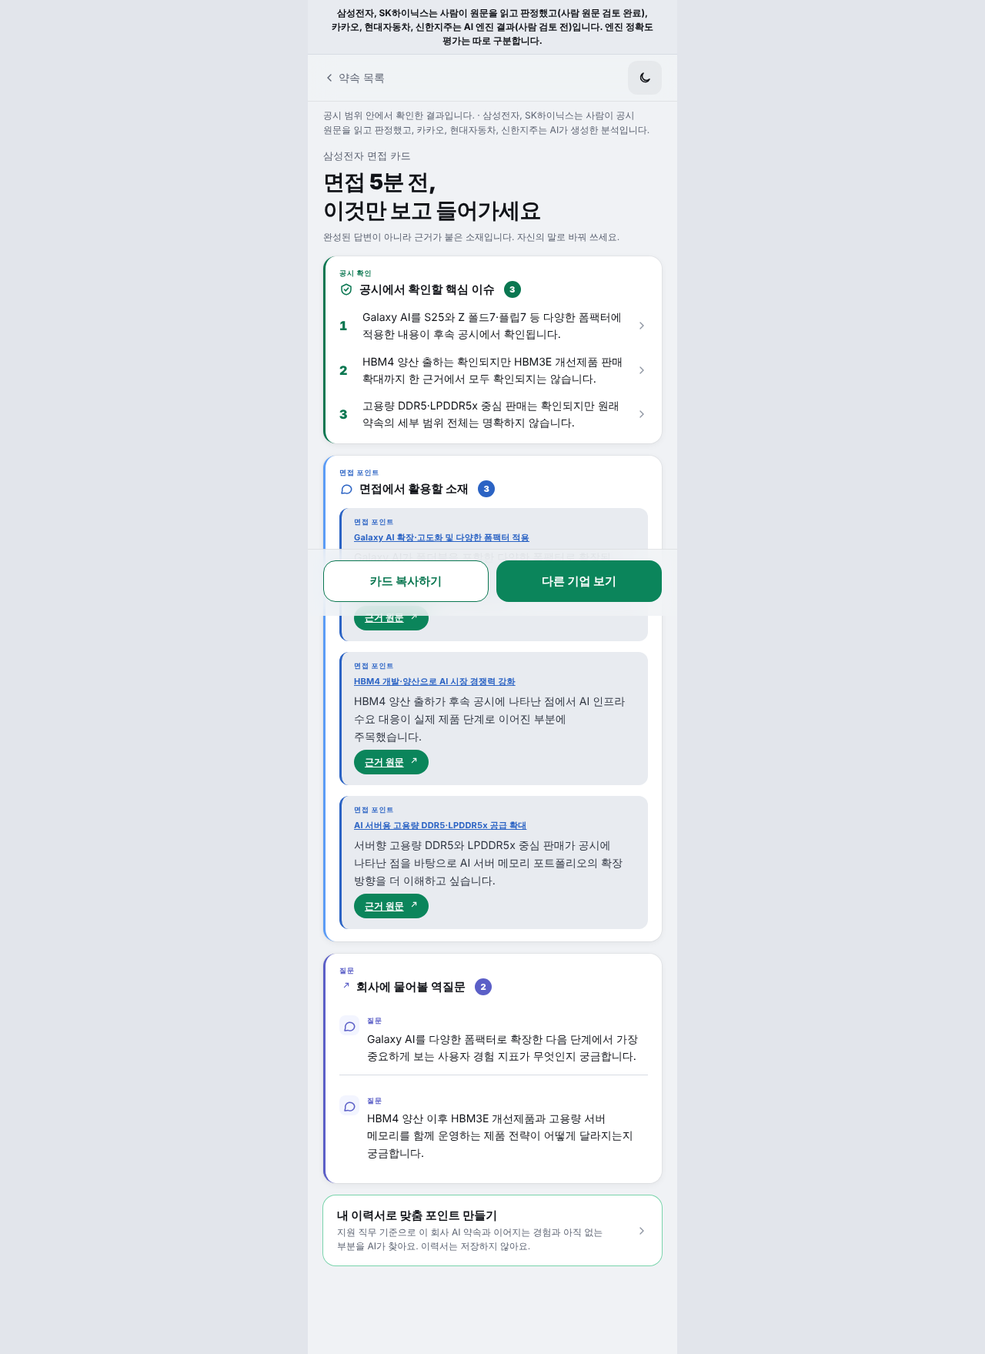
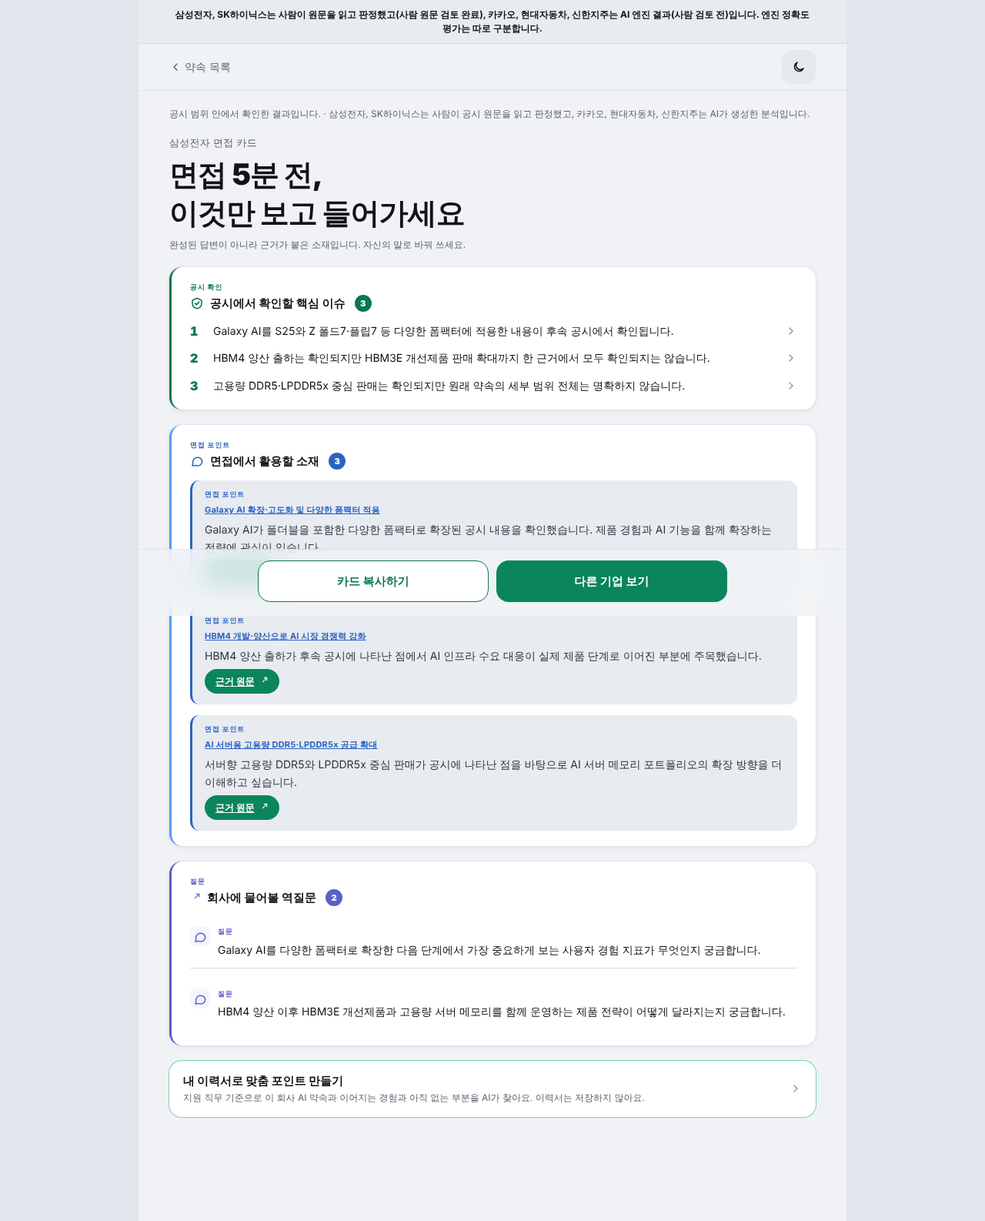
마지막 다듬기: PC 화면 넓게, README 한눈에 보기, 판정 설명·근거 점검, 발표 방향
- PC(1024px 이상)에서만 화면을 920px까지 넓히고 기업 목록을 두 줄로 (휴대폰 화면 6개는 바꾸기 전과 픽셀까지 같음)
- 사람 원문 검토 기업의 안내 문구를 "읽고 판정한"으로 통일
- README 맨 위: 한 문장 소개, 첫 화면 그림, 한눈에 보기, 결과 숫자, 작동 흐름, 심사용 읽는 순서, 문서 묶음
- 화면의 판정 15개 설명·근거 점검 기록 (docs/judgment-audit.md): 판정 이유 15/15, 근거 문장 원문 존재 확인 15/15,
  엔진의 "공시에서 확인 불가" 3개는 판정 모델이 받은 후보 문장까지 확인. 찾은 문제 1건(판정 이유의 내부 용어)은 후속 과제
- 예상 질문 Q13(검색 문제와 판정 문제 나누기), Q14(판정 이유 확인), 발표 방향(가장 강한 장면, 보여 줄 숫자, 남은 위험)
- PC 화면 캡처 다시 찍기 (docs/images/screens/)

Claude-Session: https://claude.ai/code/session_01BzNPn68M46ueTLKzppE7wq

Changed region(s): [[0.1562, 0.0, 0.8438, 0.9269], [0.1875, 0.0, 0.25, 0.0309], [0.6562, 0.5252, 0.6875, 0.5561]]

diff --git a/app/css/style.css b/app/css/style.css
@@ -996,3 +996,26 @@ a.search-item:active { transform: scale(0.985); }
 .glossary-card > summary span { font-size: 13px; font-weight: 800; color: var(--text); }
 .glossary-card > summary small { font-size: 12px; line-height: 1.5; color: var(--sub); }
 .glossary-card[open] > summary { margin-bottom: 10px; }
+
+/* ---------- 20. PC 폭 (10/20): 1024px 이상에서만 넓게 써요. 휴대폰 화면(1023px 이하)은 그대로예요 ---------- */
+@media (min-width: 1024px) {
+  :root { --page-max: 920px; }
+  .sample-banner { padding: 10px 40px; }
+  .topbar { padding-left: 40px; padding-right: 40px; }
+  .content { padding: 20px 40px 48px; gap: 20px; }
+  .bottombar { padding-left: 40px; padding-right: 40px; }
+  .bottombar:not(.two) .btn { max-width: 420px; margin: 0 auto; }
+  .bottombar.two { grid-template-columns: repeat(2, minmax(0, 300px)); justify-content: center; }
+  .hero { padding-top: 28px; gap: 14px; }
+  .headline { font-size: 38px; }
+  .lead { font-size: 16px; max-width: 640px; }
+  .hero-stats { gap: 12px; }
+  .hero-stats > div { padding: 16px 18px; gap: 6px; }
+  .hero-stats strong { font-size: 28px; }
+  .hero-stats span { font-size: 12px; }
+  .company-list { display: grid; grid-template-columns: repeat(2, minmax(0, 1fr)); gap: 12px; }
+  .detail-title { font-size: 28px; }
+  .card:not(.pipeline-card) { padding: 20px 24px; }
+  .pipeline-card > summary { padding: 20px 24px; }
+  .pipeline-list { padding: 0 24px 10px; }
+}

diff --git a/docs/judgment-audit.md b/docs/judgment-audit.md
@@ -1,0 +1,66 @@
+# AI 판정 설명·근거 점검 (10/20)
+
+화면에 나온 판정 15개(구체적 약속)를 대상으로, 사용자가 판정 이유를 확인할 수 있는지와 근거가 DART 원문으로 이어지는지를 점검했습니다. 판정이 맞는지(정확도)를 사람이 다시 매긴 기록이 아닙니다. 사람이 원문을 읽고 판정을 확인한 것은 삼성전자·SK하이닉스 6개(사람 원문 검토 완료)이고, 카카오·현대자동차·신한지주 9개는 AI 엔진 결과(사람 원문 검토 전)입니다. 이 점검은 Claude가 결과 파일과 엔진 기록을 읽어 한 AI 보조 점검입니다.
+
+## 1. 화면에서 판정 이유를 확인하는 곳
+
+약속 상세 화면 하나가 "검증 카드" 역할을 합니다. 새 기능을 만들지 않고, 이미 있는 칸이 아래 질문에 모두 답하는지 확인했습니다.
+
+| 확인할 것 | 화면 위치 | 데이터 |
+| --- | --- | --- |
+| 기업이 무엇을 약속했나 | 01 "약속 · 2024 사업보고서": 원문 문장 그대로, 보고서·장·전자공시 쪽 | `promises[].sentence`, `source` |
+| 무엇이 실행 근거로 확인됐나 | 02 "근거 · 후속 공시": 근거 문장, "원문 존재 확인" 배지, 원문 보기 링크, 약속과 같은 말 형광 표시 | `evidence[]` |
+| 왜 이 판정인가 | 03 "판정": 판정 이름, 판정 뜻 한 줄, 판정 이유(확인된 부분과 확인되지 않은 부분) | `verdict`, `reason` |
+| 아직 실행 시기가 아닌가 | 약속한 시기가 근거를 찾은 범위(2026 반기보고서, 6월 말)보다 뒤면 "실행 시기 전" 안내 | 약속 문장의 시기 표현 (FB-03) |
+| 원문으로 직접 확인 | 화면 아래 DART 원문 버튼 2개(약속 보고서, 근거 보고서) | `source.url` |
+| 누가 확인했나 | 확인 4단계(처음에 접힘): 원문 존재 확인 N/M, 사람 원문 검토 완료/전 | 기업의 `data_mode` |
+
+## 2. 판정 15개 점검 결과
+
+| 기업 | 약속 | 판정 | 근거 문장 (원문 존재 확인 / DART 링크) | 판정 이유에 확인된 부분과 안 된 부분 | 검토 상태 |
+| --- | --- | --- | --- | --- | --- |
+| 삼성전자 | Galaxy AI 확장·고도화 및 다양한 폼팩터 적용 | 근거 확인 | 1개 (1/1, 1/1) | 약속 대상과 활동이 함께 확인된다고 적음 | 사람 원문 검토 완료 |
+| 삼성전자 | HBM4 개발·양산으로 AI 시장 경쟁력 강화 | 일부 확인 | 1개 (1/1, 1/1) | 있음 (HBM4 양산 출하 확인 / HBM3E 판매 확대 미확인) | 사람 원문 검토 완료 |
+| 삼성전자 | AI 서버용 고용량 DDR5·LPDDR5x 공급 확대 | 일부 확인 | 1개 (1/1, 1/1) | 있음 (고용량 제품 판매 확인 / 세부 용량·1b나노 확산 미확인) | 사람 원문 검토 완료 |
+| SK하이닉스 | SOCAMM·LPCAMM으로 AI 서버·PC 시장 대응 | 공시에서 확인 불가 | 없음 | 읽은 범위와 "미이행이라는 뜻이 아님"을 적음 | 사람 원문 검토 완료 |
+| SK하이닉스 | ZUFS 4.0 양산 및 온디바이스 AI 스마트폰 탑재 | 공시에서 확인 불가 | 없음 | 읽은 범위와 "미이행이라는 뜻이 아님"을 적음 | 사람 원문 검토 완료 |
+| SK하이닉스 | AI 데이터센터용 QLC 61TB Gen5 기술력 확보 | 일부 확인 | 1개 (1/1, 1/1) | 있음 (321단 QLC 개발·고객 인증 확인 / 61TB Gen5 제품 미확인) | 사람 원문 검토 완료 |
+| 카카오 | AI 캠퍼스 활용 확대 | 일부 확인 | 2개 (2/2, 2/2) | 있음 (그룹사 사용·운영 확인 / 활용 증가·홍보 실행 미확인) | AI 엔진 결과 |
+| 카카오 | 카카오톡 AI 신규 기능·서비스 선보임 | 일부 확인 | 1개 (1/1, 1/1) | 있음 (AI 서비스 출시·CBT 확인 / 관심사 지면·트래픽 확대 미확인) | AI 엔진 결과 |
+| 카카오 | 카카오톡 AI 기능 및 별도 앱 서비스 준비 | 일부 확인 | 3개 (3/3, 3/3) | 있음 (카카오톡 내 AI 서비스·오케스트레이션 연구 확인 / 서비스 적용·별도 앱 출시 미확인). 이유 첫머리에 엔진 내부 용어가 나옴 (4장) | AI 엔진 결과 |
+| 현대자동차 | AI 기반 SDV 체계 전환 | 일부 확인 | 2개 (2/2, 2/2) | 있음 (OTA·서비스 수익 모델·AI 엔진 확인 / 차량 데이터 활용·전 밸류체인 전환 미확인) | AI 엔진 결과 |
+| 현대자동차 | 차량 러닝 머신 개발 | 일부 확인 | 2개 (2/2, 2/2) | 있음 (학습형 모빌리티 생태계 관련 활동 확인 / 러닝 머신 개발 단계 불명확) | AI 엔진 결과 |
+| 현대자동차 | AI 기능 구현 ('26년 하반기 SDV 페이스 카) | 공시에서 확인 불가 | 없음 | 읽은 범위와 검색어를 바꿔 2번 더 찾았다고 적음. 화면에 "실행 시기 전" 표시 | AI 엔진 결과 |
+| 신한지주 | AI 활용 플랫폼 경쟁력 강화 | 일부 확인 | 1개 (1/1, 1/1) | 있음 (AI 투자정보 제공 확인 / 테크 기업 파트너십·고객 기반 확대 미확인) | AI 엔진 결과 |
+| 신한지주 | AI 해외 공시·뉴스 번역 서비스 제공 | 공시에서 확인 불가 | 없음 | 읽은 범위와 검색어를 바꿔 2번 더 찾았다고 적음 | AI 엔진 결과 |
+| 신한지주 | AI 활용 내부통제 모니터링 강화 | 공시에서 확인 불가 | 없음 | 읽은 범위와 검색어를 바꿔 2번 더 찾았다고 적음 | AI 엔진 결과 |
+
+요약:
+- 판정한 약속 15개 모두 판정 이유가 있고, 약속 문장의 DART 원문 링크가 있습니다 (15/15).
+- 판정에 쓴 근거 문장 15개는 모두 원문 존재 확인을 통과했고 DART 원문 링크가 있습니다 (15/15). 방향성 약속의 관련 활동 문장까지 합친 화면 전체 근거 26개도 모두 통과입니다.
+- "일부 확인" 9개는 모두 판정 이유에 확인된 부분과 확인되지 않은 부분을 함께 적었습니다. FB-07이 요청한 내용이 문장 안에는 이미 들어 있습니다.
+- "공시에서 확인 불가" 5개는 모두 읽은 공시 범위를 적었고, 화면의 판정 뜻 한 줄에 "미이행이라는 뜻이 아님"이 나옵니다.
+
+## 3. AI 엔진의 "공시에서 확인 불가" 3개: 검색이 무엇을 찾았나
+
+엔진 기록(`data/work/<기업>/llm_log.jsonl`의 판정 호출, `judged.json`의 `search_log`)에서, 판정 모델이 3번의 검색마다 받은 후보 문장을 읽었습니다.
+
+| 약속 | 판정 모델이 받은 후보 문장 | 점검 결과 |
+| --- | --- | --- |
+| 신한지주: AI 해외 공시·뉴스 번역 서비스 제공 | 번역·외신과 관련된 문장이 없었습니다. 비슷한 말은 해외거래소(NYSE) 상장 공시 문장 1개뿐이었습니다 | 검색한 범위에 관련 근거가 없었던 경우라 판정과 맞습니다 |
+| 신한지주: AI 활용 내부통제 모니터링 강화 | "AI 기반 리스크관리, 내부통제 솔루션도 구축하겠습니다"(2025 사업보고서, 2026 반기보고서)가 후보에 있었습니다 | 앞으로 하겠다는 계획 문장이라 실행 근거가 아닙니다. 판정기준 v2대로 근거로 쓰지 않은 것으로, 검색 실패가 아니라 판정 단계에서 올바르게 걸렀습니다 |
+| 현대자동차: AI 기능 구현 ('26년 하반기 SDV 페이스 카) | AI 엔진·자율주행 관련 문장은 있었지만 페이스 카나 차량용 고성능 컴퓨터 실증 문장은 없었습니다 | 약속 시기('26년 하반기)가 근거를 찾은 범위(2026 반기보고서)보다 뒤라 화면에 "실행 시기 전"이 붙습니다 |
+
+## 4. 찾은 문제와 후속 과제
+
+| 우선순위 | 문제 | 지금 한 일 | 후속 과제 |
+| --- | --- | --- | --- |
+| 1 | 카카오 "카카오톡 AI 기능 및 별도 앱 서비스 준비"의 판정 이유가 "후보 문장에는"으로 시작합니다. 엔진 내부 용어가 사용자 화면에 그대로 나온 것입니다 | 그대로 둠. 엔진 결과를 사람이 손으로 고치면 "AI 엔진 결과"라는 표시와 맞지 않습니다. 판정과 근거 문장은 이 문제와 관계없습니다 | 판정 지시문에 "후보 문장"처럼 내부 용어를 쓰지 말라는 규칙을 넣고 다시 실행 |
+| 2 | 판정 이유를 "확인된 부분 / 확인되지 않은 부분" 두 칸으로 나눠 보여 주기 (FB-07) | 이유 문장에는 두 부분이 이미 함께 있습니다 (일부 확인 9개 모두) | 칸을 나누려면 판정 결과 형식을 바꿔야 해서, 판정기준을 고정한 이번 제출에서는 하지 않음 |
+| 3 | AI 엔진 9개 판정의 정확도 | 이 문서는 설명과 근거 연결만 점검했습니다 | 사람 원문 검토로 정답을 만들어 비교. 지금 정확도 기록은 SK하이닉스 시범 평가(n=3)뿐입니다 (`eval/results/skhynix_runs.md`) |
+
+## 5. 다시 해 보는 방법
+
+1. `app/data/results.json`에서 `type`이 `specific`인 약속의 `verdict`, `reason`, `evidence[].citation_verified`, `evidence[].source.url`, `source.url`을 셉니다.
+2. AI 엔진 기업은 `data/work/<기업>/llm_log.jsonl`에서 `task`가 `judge`인 줄을 찾아, 판정 모델이 받은 후보 문장을 읽습니다. 후보 문장 번호는 `data/work/<기업>/judged.json`의 `search_log`에 있습니다.
+3. 화면은 운영 사이트의 약속 상세(`#/c/<기업>/p/<약속 번호>`)에서 01 약속, 02 근거, 03 판정, 원문 버튼, 접힌 확인 4단계를 차례로 엽니다.

diff --git a/docs/progress-log.md b/docs/progress-log.md
@@ -28,6 +28,7 @@ AI Promise를 만든 과정을 날짜순으로 정리합니다. 시각은 한국
 | 10/19 | 드라이브 공통 폴더에 발표자료·3분 영상용 `1020_발표자료_영상` 폴더(23:21)를 만들고 README 14장과 결과보고서 초안에 링크. 문서에 남아 있던 처음 시연 기업 목록(카카오, 신한은행, NAVER)을 지금 화면(카카오, 현대자동차, 신한지주)에 맞게 고치고, 심사 예상 질문에 시범 평가(Q11) 추가 | PR #40 |
 | 10/20 | 사용자 의견 반영 5건(PR #41): 첫 화면 사용 순서 안내(FB-01), 약속과 근거에 함께 나오는 말 형광 표시(FB-02), 약속한 시기가 근거 범위보다 뒤인 약속에 "실행 시기 전" 표시(FB-03), 이력서 분석 중 진행 막대와 경과 시간(FB-04), 약속에 나온 용어 풀이와 판정 뜻 한 줄(FB-05). 10/19 23:58까지 설문 응답 12명(개선 의견 6건 중 4건이 "이해하기 어렵다"는 같은 방향)과 설문 밖 후기 2건을 근거로 골랐고, 직무별 분류와 판정 이유 나누기(FB-06, FB-07)는 후속 과제로. 김성태가 전달한 사용자 테스트 분석 보고서를 숫자를 원자료와 대조한 뒤 저장소에 옮기고 반영 현황을 붙임. 02:00 운영 사이트의 이력서 기능을 실제 모델로 다시 점검(2번 모두 정상)하고, 발표용 고치기 전·후 화면 5장과 결과 차트를 만듦. 02:11 고친 화면을 본 후기 1건을 기록(용어 풀이·보완점 좋음, 이력서 연결 문장 개선은 FB-08 후속 과제) | PR #41, `docs/feedback-log.md`, `docs/user-test-report.md`, `docs/images/feedback/` |
 | 10/20 | v2(PR #46): 고친 화면이 배포된 뒤 받은 의견 반영. 이력서 연결을 지원 직무 기준으로 바꿈(지원 직무 선택, 경험 → 지원 직무 역량 → 회사 AI 약속, 직접/간접 연결과 한계 문장, 내 이력서에 없는 부분과 면접 전에 준비할 것, FB-08). 설문 2명(02:17, 02:25)이 글자 양을 말해 용어 칸, 확인 4단계, 분석 정보를 처음에 접어 둠(FB-09). 원문 존재 확인(코드)과 사람 원문 검토를 화면과 문서에서 다른 이름으로 나누고 기업 화면에 분석 정보 카드를 더함. 운영 사이트는 결과 파일을 못 읽어도 예시 데이터로 바꾸지 않게 하고 `meta.is_sample`을 false로 정리. SK하이닉스 평가 표현을 "3개 항목 × 3회 반복실행, 1회차 2/3, 2회차 3/3, 3회차 2/3"로 통일(78% 같은 정확도로 쓰지 않음). 아키텍처 문서를 OpenDART 자동 수집과 GitHub Actions 기준으로 다시 쓰고, 팀 기여 문서의 SK하이닉스 "독립 판정"을 공동 검토로 고침. PR #45(김성태 계정, 같은 후기 정리)의 본문을 합침. 03:14 합치고 03:15 운영 배포, 03:16 운영 사이트 이력서 기능을 실제 모델로 점검(삼성전자 직무 "기술사업화", SK하이닉스 직무 없음, 2번 모두 정상). FB-08·FB-09 고치기 전·후 화면과 v2 최종 화면 캡처 6장을 만듦 | PR #46, `smoke-results/39300958868`, `smoke-results/39300967745`, `docs/feedback-log.md`, `docs/architecture.md` |
+| 10/20 | 제출 전 마지막 다듬기: PC(1024px 이상)에서 화면을 920px까지 넓히고 기업 목록을 두 줄로(휴대폰 화면 6개는 이전과 픽셀까지 같음), 사람 원문 검토 기업의 안내 문구를 "읽고 판정한"으로 통일, README 맨 위에 한눈에 보기·결과 숫자·작동 흐름·심사용 읽는 순서와 문서 묶음, 발표 방향(가장 강한 장면은 FB-08 고치기 전·후, 보여 줄 숫자, 남은 위험), 예상 질문 Q13(검색 문제와 판정 문제를 나누는 법)·Q14(판정 이유 확인), 화면 판정 15개의 설명·근거 점검(`docs/judgment-audit.md`, AI 보조 점검), PC 화면 캡처 다시 찍기 | `app/css/style.css` 20장, README, `docs/presentation-outline.md`, `docs/judge-qa.md` |
 
 ## 2. 앞으로 할 일 (10/19 기준, 순서대로)
 

diff --git a/docs/presentation-outline.md b/docs/presentation-outline.md
@@ -1,5 +1,35 @@
 # 최종 발표 구성안
 
+## 0. 발표 방향 (10/20 확정)
+
+**한 문장 소개**: "기업이 실제로 무엇을 중요하게 말하고 있는지 공시에서 찾고, 그 전략을 내 직무와 경험에 연결해 면접 준비까지 도와주는 서비스입니다." (영어로 한 줄이 필요하면: Evidence-based Interview Intelligence)
+
+**가장 강한 한 장: 기능보다 변화**. FB-08 고치기 전·후(`docs/images/feedback/fb08-resume-role.png`)를 기술 구조 슬라이드보다 앞에 둡니다.
+- 고치기 전: 재무 분석·기술사업화 경험 → "갤럭시 확장·고도화에 활용할 수 있습니다"
+- 사용자 의견: "실무라면 재무·실사·전략팀 업무일 텐데 갤럭시와 바로 잇는 것은 어색하다"
+- 고친 뒤: 경험 → 지원 직무 역량 → 회사 AI 전략. 결과는 직접 연결 / 간접 연결(한계 문장) / 경험 공백과 준비할 것
+
+**발표에서 보여 줄 숫자 (이것만)**
+
+| 구분 | 숫자 |
+|---|---|
+| 제품 | 5개 기업, AI 약속 24개, OpenDART 자동 수집과 분석 |
+| 사용자 | 실제 사용자 설문 14명. 고치기 전 12명 기준 이해도 4.50, 신뢰도 4.58, 면접 활용 의향 4.67 (5점 만점), 이력서 기능 12/12명 사용 |
+| 개선 | 사용자 피드백 7건 실제 반영 (PR #41, PR #46) |
+| AI 평가 | SK하이닉스 약속 3개를 같은 엔진으로 3회: 1회차 2/3 → 2회차 3/3 → 3회차 2/3 (정확도라고 부르지 않음) |
+
+**제품 흐름**: 기업 검색 → AI 약속 → 후속 공시 근거 → 원문 존재 확인 → DART 원문 → 사람 원문 검토 여부 → 지원 직무 선택 → 이력서 → 직접/간접 연결 → 경험 공백 → 면접 포인트 → 역질문
+
+**준비 순서**: 발표자료 > 데모 > 예상 질문 > 추가 사람 평가. 저장소는 10/20 07:00에 v2를 최종 기준선으로 고정했고, 그 뒤에는 기능을 바꾸지 않습니다.
+
+**남은 위험과 말하는 법**
+
+| 위험 | 대응 |
+|---|---|
+| 발표자료·3분 영상 | 10/20 제작. 재료(고치기 전·후 이미지 7장, PC 화면 캡처 6장, 결과 차트)는 `docs/images/`와 드라이브 `1020_발표자료_영상`에 있음 |
+| 고친 v2 화면을 본 설문이 2명 | 개선 효과를 숫자로 주장하지 않음. 제출 뒤 3~5명 추가 검증은 다음 단계로 말함 |
+| AI 판정 사람 평가가 n=3 | 숨기지 않고 시범 평가로 말함. QLC 61TB 사례로 검색은 안정, 판정 경계가 흔들렸다는 실패 분석을 보여 줌 (`docs/judge-qa.md` Q13) |
+
 ## 1. 문제 (20초)
 "취업 준비자가 기업의 AI 전략을 제대로 확인하려면 수백 쪽의 사업보고서를 여러 연도에 걸쳐 직접 비교해야 합니다."
 

diff --git a/docs/requirements.md b/docs/requirements.md
@@ -89,7 +89,7 @@ AI Promise의 기능 요구사항, 비기능 요구사항, AI 활용 방식, 시
 | NFR-06 | AI 생성 고지 | 모든 화면에 AI가 생성한 분석이라는 문구를 표시합니다 | FR-05 (`app/js/app.js`가 화면 6곳에 표시). `tests/ui_check.py`는 안내 문구 칸이 있는지와 글자 크기를 검사합니다 |
 | NFR-07 | 개인정보 | 사용자 테스트 참여자의 이름, 전화번호, 이메일을 저장하지 않고 번호로만 기록합니다(설문은 P01, 기록지는 1처럼). 참여 전에 동의를 받습니다. 내 경험 연결(FR-33)의 이력서는 저장하지 않고 로그에도 남기지 않으며, 화면에서 이름·연락처·주소·생년월일을 빼고 넣도록 먼저 안내합니다 | `docs/user-test-protocol.md`, 설문 설정(FR-32), `.gitignore` |
 | NFR-08 | 보안 | API 키는 `engine/.env`에만 두고 저장소, 공유 폴더, 단톡방에 올리지 않습니다 | `.gitignore`, `engine/.env.example` |
-| NFR-09 | 접근성 | 글자 대비는 작은 글자 4.5:1, 큰 글자 3:1 이상(WCAG AA)이고, 390px·320px 폭에서 가로로 밀리지 않으며, 다크·라이트 두 테마에서 모두 지킵니다 | `tests/ui_check.py` (CI `ui` 작업) |
+| NFR-09 | 접근성 | 글자 대비는 작은 글자 4.5:1, 큰 글자 3:1 이상(WCAG AA)이고, 390px·320px 폭에서 가로로 밀리지 않으며, 다크·라이트 두 테마에서 모두 지킵니다. PC(1024px 이상)에서는 화면을 920px까지 넓혀 기업 목록을 두 줄로 보여 주고, 휴대폰 화면은 바꾸지 않습니다(10/20) | `tests/ui_check.py` (CI `ui` 작업) |
 | NFR-10 | 재현성 | temperature 0(같은 입력에 최대한 같은 답), 모델과 설정은 `engine/config.yaml`에 고정, 판정기준 v2를 10/15에 동결, LLM 호출 기록을 남깁니다 | `engine/config.yaml`, FR-21 |
 | NFR-11 | 품질 관문 | main에 합치기 전에 `tests/test_config.py`(엔진 설정 모양), `tests/test_mock.py`, `tests/test_ui_static.py`, `tests/ui_check.py`를 통과해야 합니다(팀 규칙). CI의 `validate`와 `ui` 작업이 Pull Request와 main에 올릴 때 자동으로 돌립니다. main 보호 설정은 없어서 규칙으로 지킵니다 | README 6장, `.github/workflows/ci.yml` |
 | NFR-12 | 배포 | 외부에서 접속할 수 있는 공개 주소로 배포하고, main에 올리면 자동으로 다시 배포됩니다 | https://ai-promise-six.vercel.app, `docs/deploy.md` |

diff --git a/docs/release-checklist.md b/docs/release-checklist.md
@@ -32,6 +32,7 @@
 - [x] 원문 존재 확인(코드)과 사람 원문 검토를 화면과 문서에서 다른 이름으로 쓴다 (배지, 분석 정보, 확인 4단계 요약 줄, `docs/architecture.md`)
 - [x] 용어 칸, 확인 4단계, 분석 정보는 처음에 접혀 있고 접힌 줄에 상태가 보인다 (FB-09, `tests/ui_check.py`는 펼쳐서 검사)
 - [x] v2 배포 뒤 운영 사이트 이력서 기능 점검 (GitHub Actions `Resume fit smoke test`, 10/20 03:16): 삼성전자 직무 "기술사업화"·SK하이닉스 직무 없음 두 번 모두 응답 200, gpt-6.1-sol, 간접 연결 한계 문장 3/3, 보완점 준비할 것 5/5, 빠진 항목 0 (`smoke-results/39300958868`, `smoke-results/39300967745`)
+- [x] PC(1024px 이상)에서 화면을 넓게 쓰고, 휴대폰 화면은 그대로 (휴대폰 390px 화면 6개를 바꾸기 전과 픽셀 단위로 비교해 모두 같음, `tests/ui_check.py` 1280px 검사 통과)
 - [x] v2 운영 배포 확인 (PR #46 합친 커밋 24a7950, Vercel Production 03:15 완료. 운영 `results.json`의 `is_sample: false`, `data_status: "real"`, 원문 존재 확인 문구, 화면 코드의 v2 문구를 직접 읽어 확인)
 
 ## P2: 시간이 남으면

diff --git a/app/README.md b/app/README.md
@@ -49,6 +49,7 @@
 | 기업 화면 아래 "분석 정보" 카드(데이터 출처, 기준 보고서, 분석 기준일, 분석 방식, 두 가지 확인 상태) | 데이터가 어디서 왔고 누가 확인했는지 한곳에서 보이게 |
 | 용어 칸, 확인 4단계, 분석 정보는 처음에 접어 두고 접힌 줄에 상태만 보임 | 고친 화면을 본 설문 2명의 "글자가 너무 많음", "핵심이 한눈에 들어오지 않음" (FB-09) |
 | 내 경험 연결에 지원 직무 선택, 직접 연결과 간접 연결(한계 문장), 내 이력서에 없는 부분과 면접 전에 준비할 것 | 이력서 연결이 직무보다 제품 약속에 억지로 이어진다는 후기 (FB-08) |
+| PC(1024px 이상)에서만 화면을 920px까지 넓히고 기업 목록을 두 줄로 (`css/style.css` 20장) | 노트북과 발표 화면에서 휴대폰 폭으로 좁게 보이던 것을 고침. 휴대폰 화면은 그대로 |
 
 ## 1. 여는 법
 

diff --git a/docs/executive-summary.md b/docs/executive-summary.md
@@ -1,7 +1,7 @@
 # AI Promise: Executive Summary
 
 ## 한 줄
-기업이 과거 공시에서 밝힌 AI 계획과 이후 실행 근거를 연결해, 취업·이직 준비자가 5분 안에 기업의 AI 전략을 원문 근거와 함께 확인하도록 돕는 서비스.
+기업이 실제로 무엇을 중요하게 말하고 있는지 공시에서 찾고, 그 전략을 내 지원 직무와 경험에 연결해 면접 준비까지 돕는 서비스. 과거 공시의 AI 계획과 이후 실행 근거를 원문과 함께 연결합니다 (Evidence-based Interview Intelligence).
 
 ## 문제
 - 기업 조사에는 여러 연도의 수백 쪽 공시를 읽고 비교해야 함
